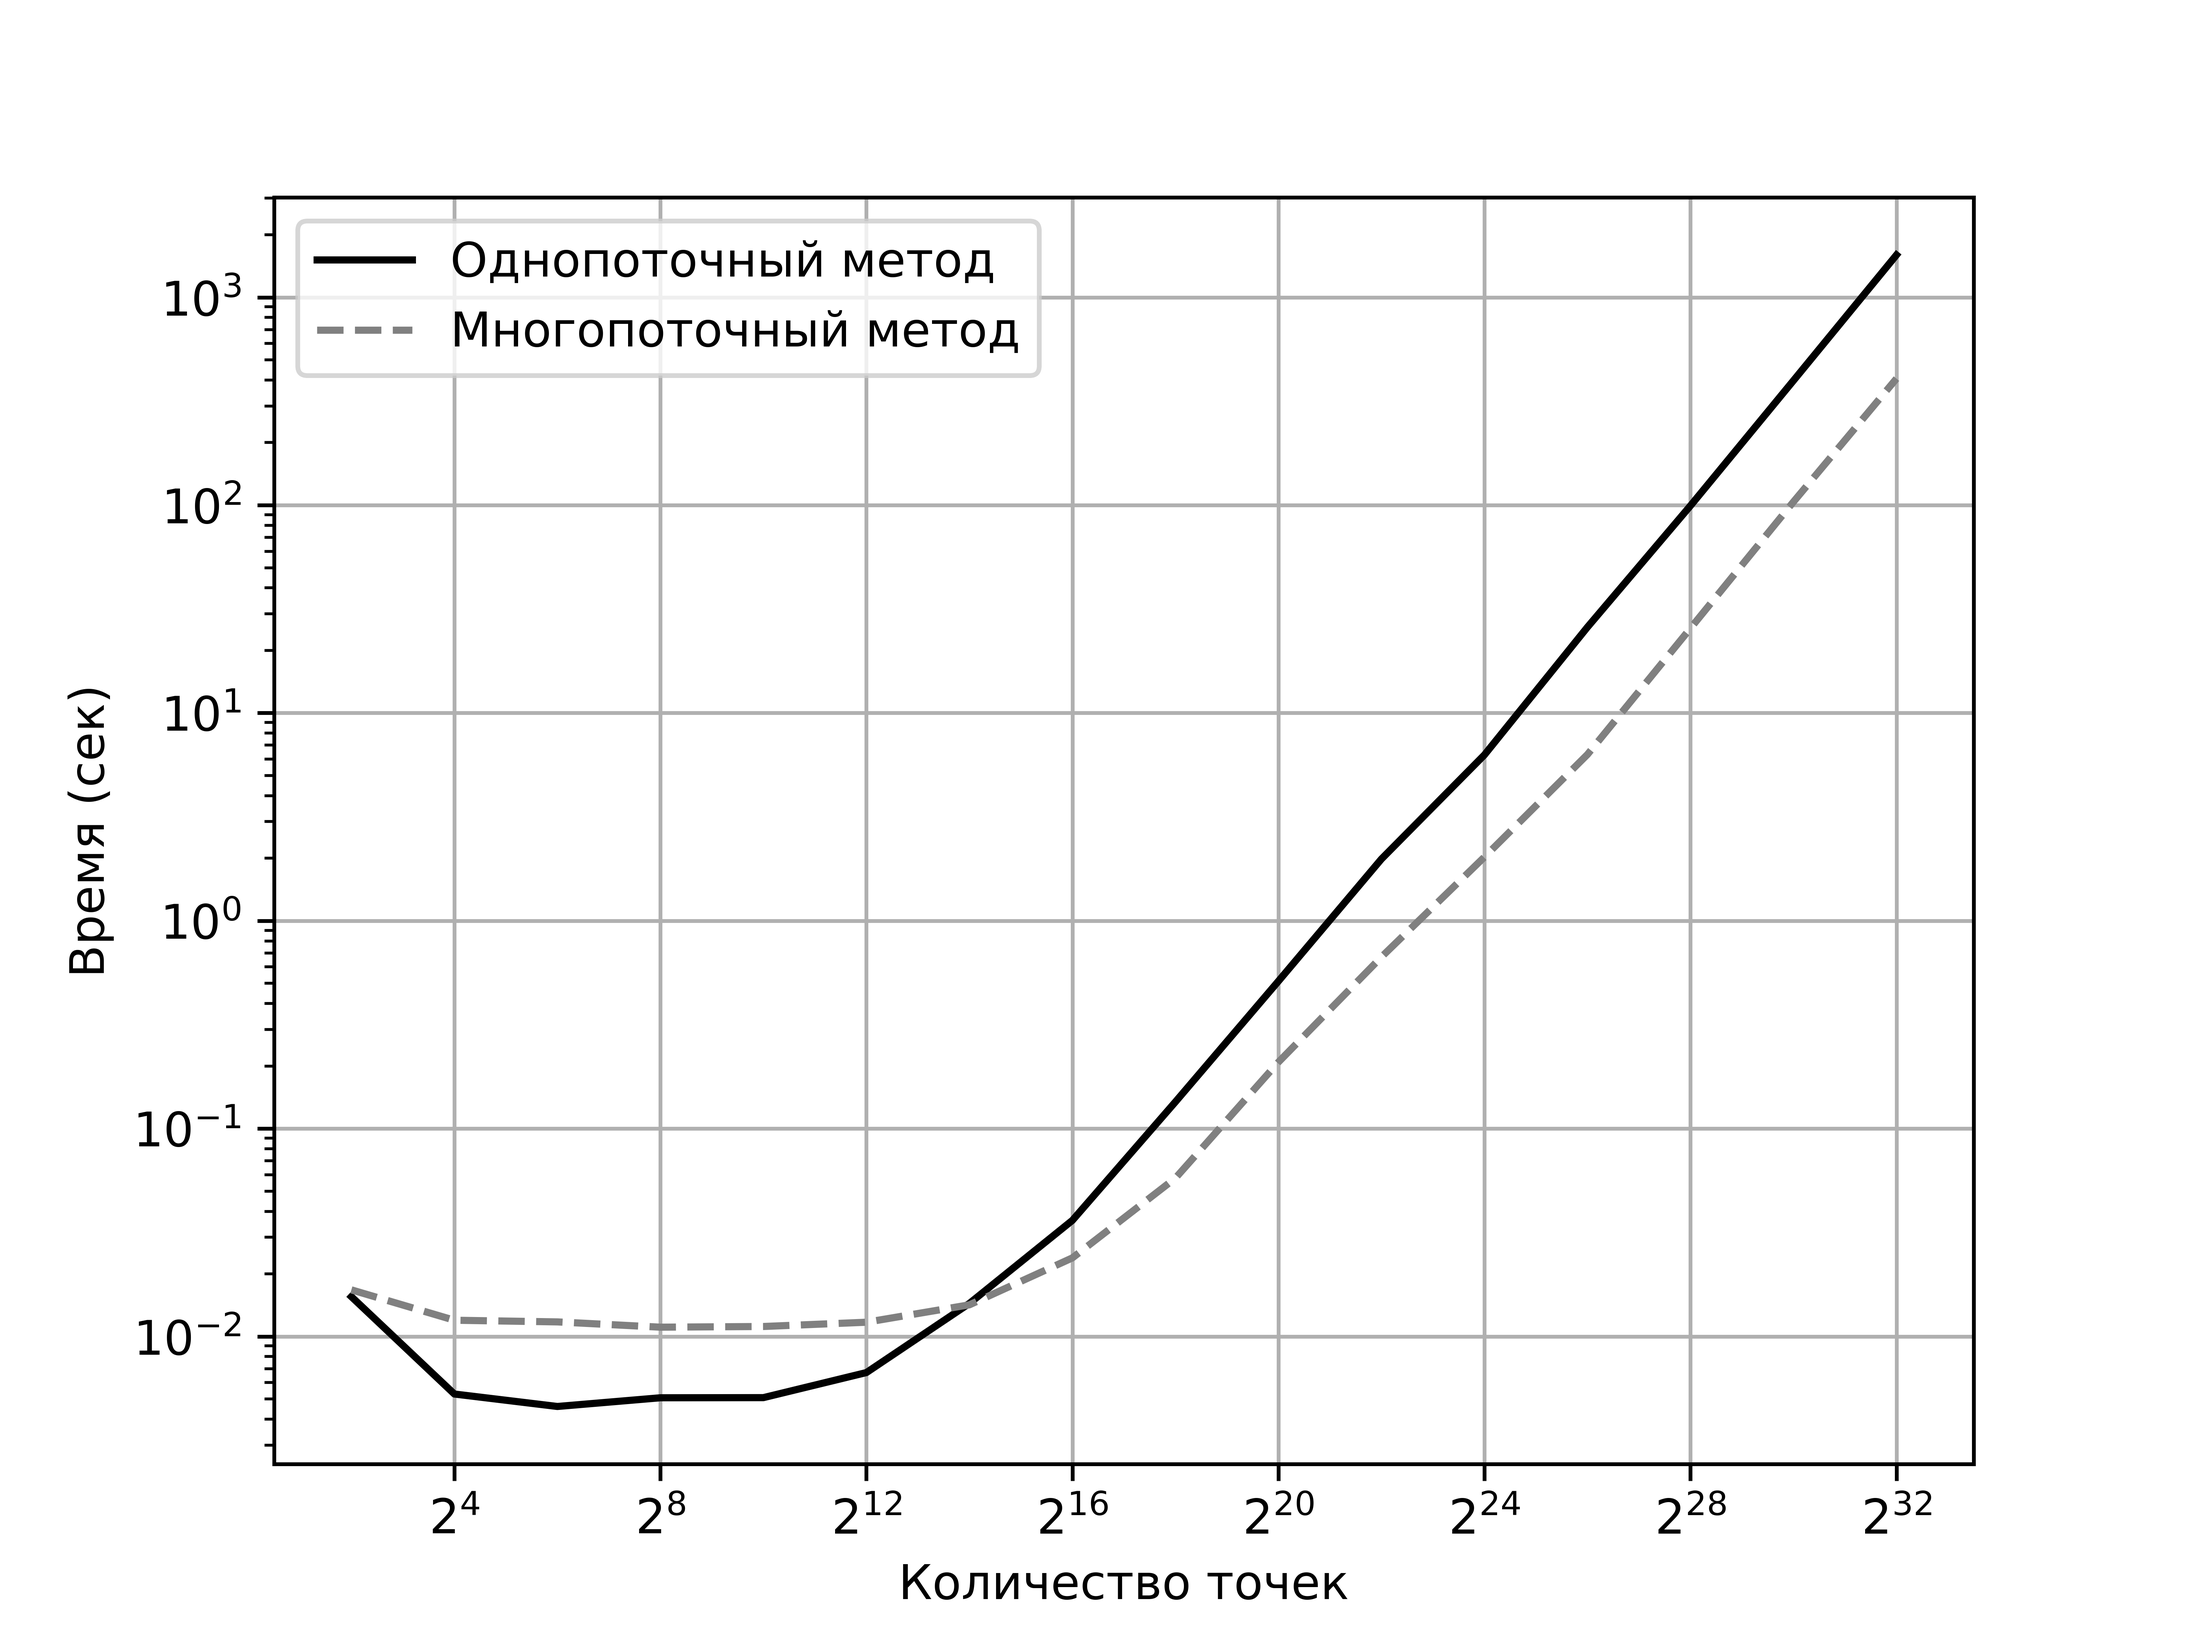
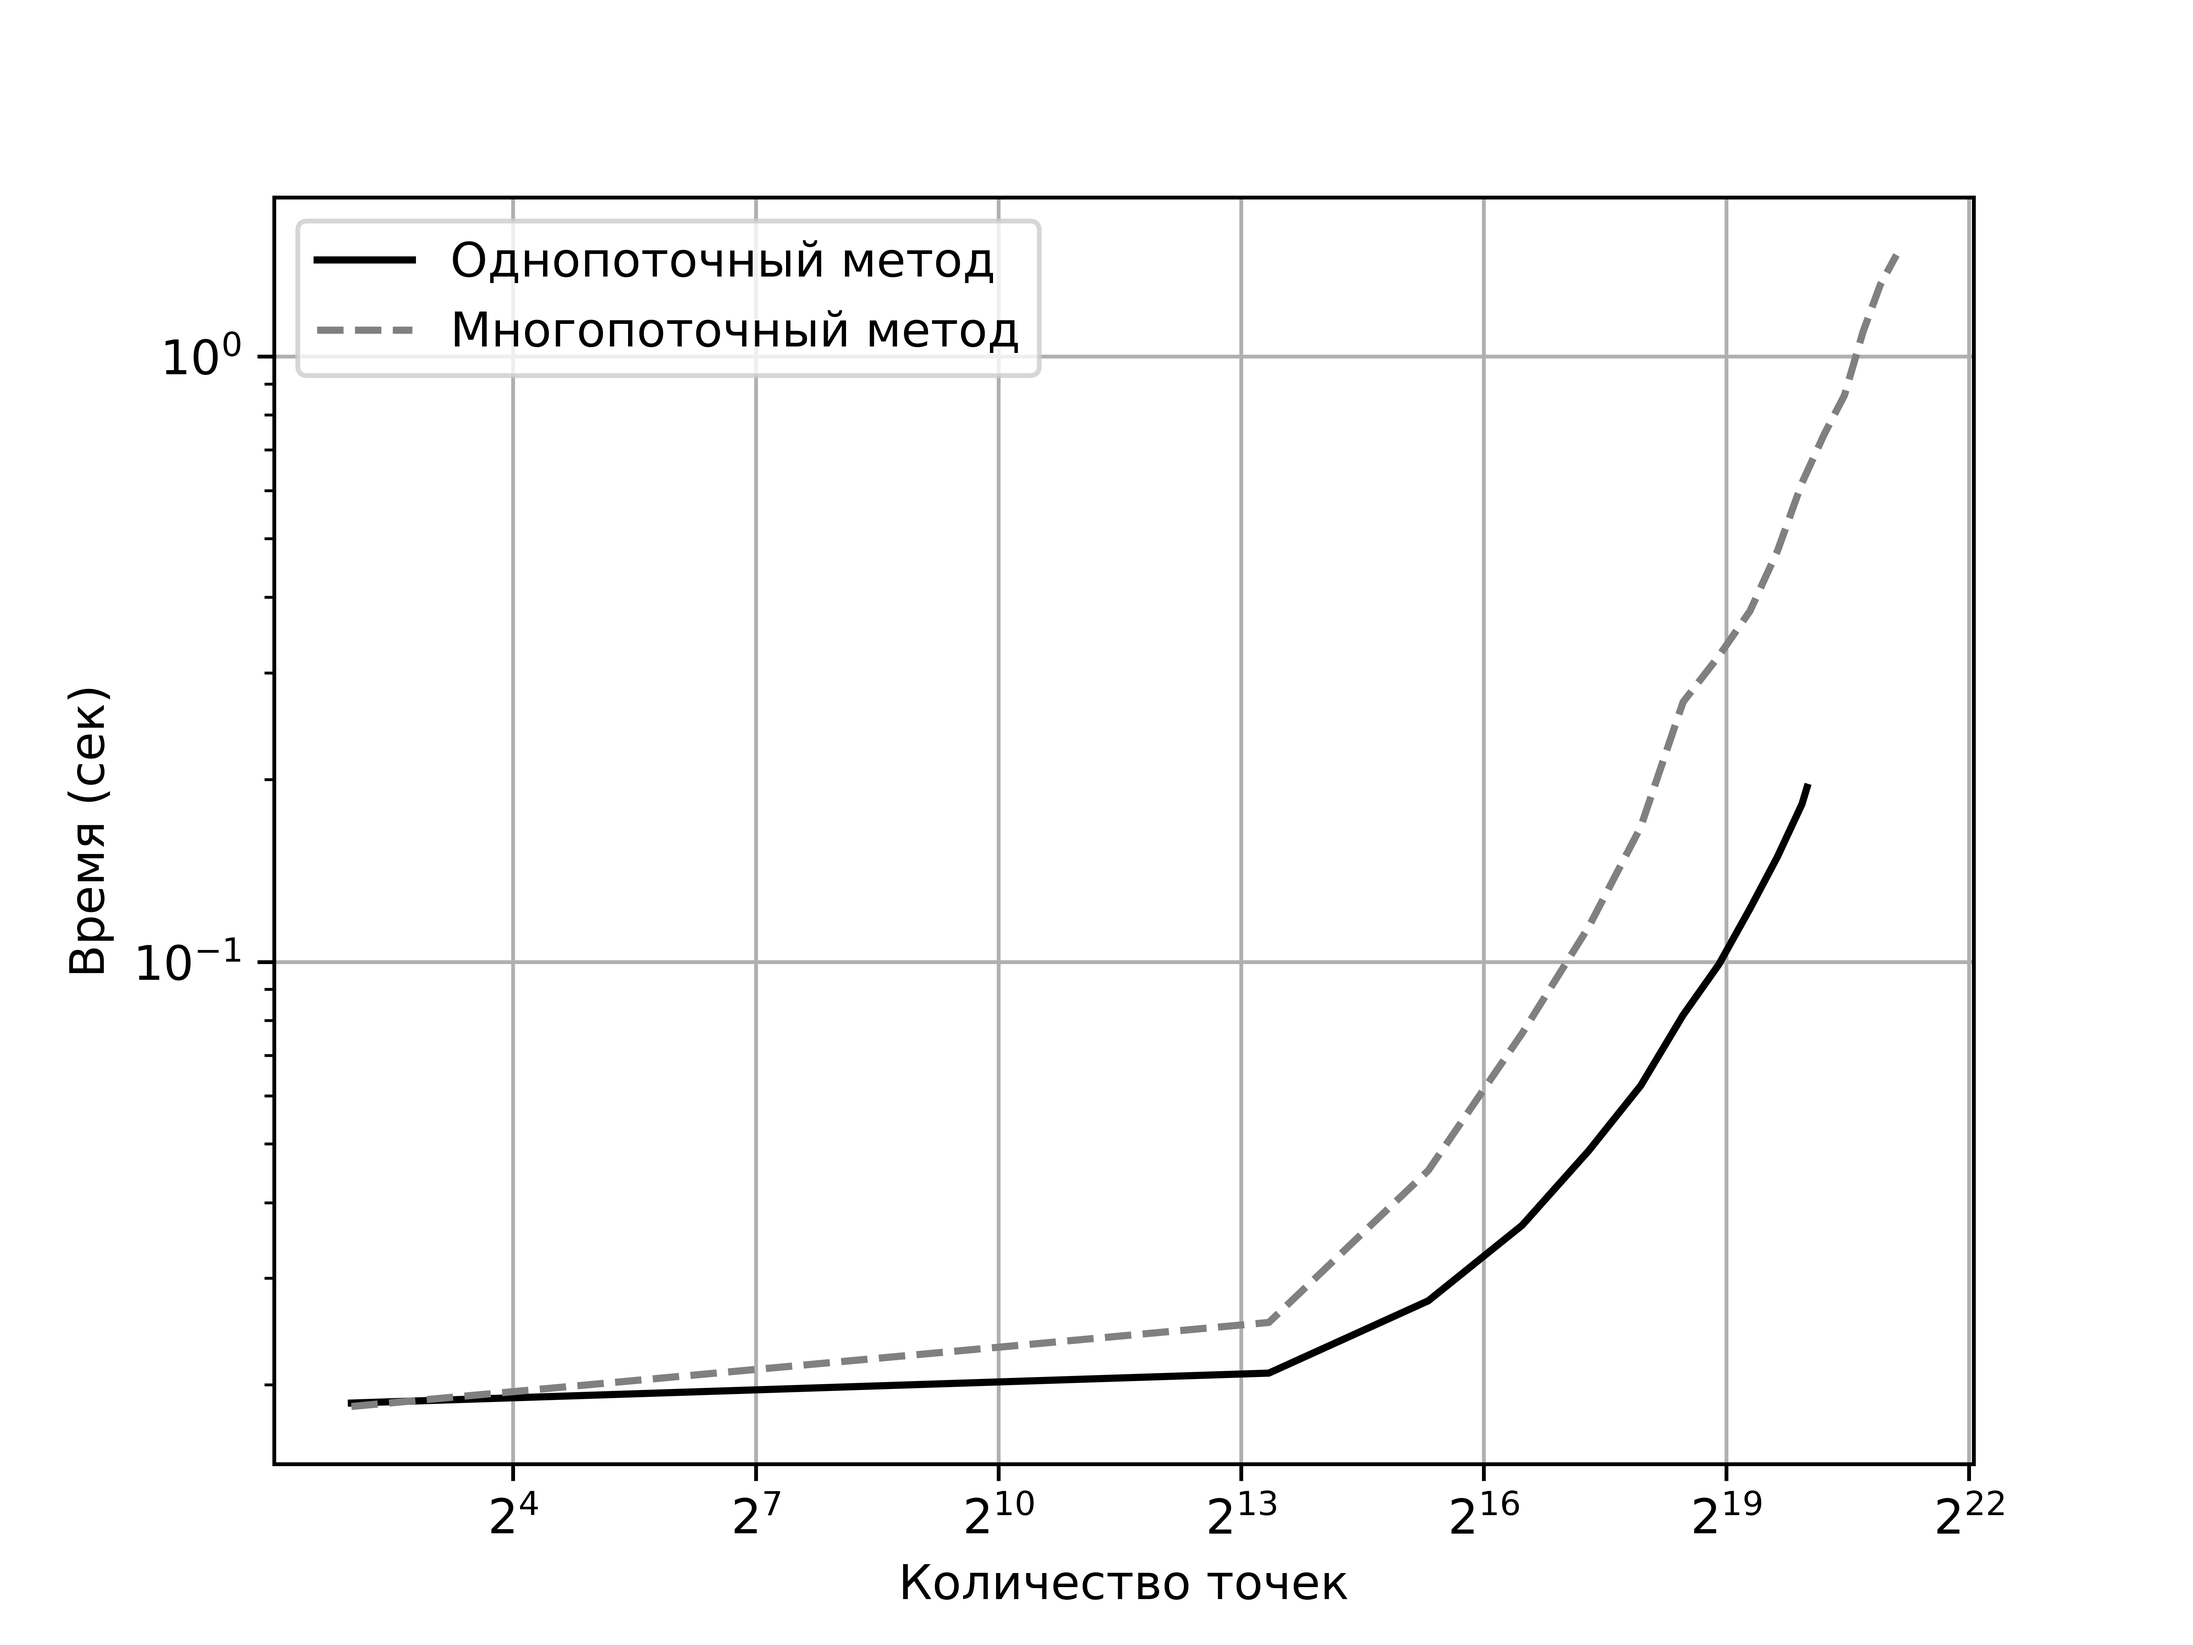
finalissled

diff --git a/issled.py b/issled.py
@@ -289,7 +289,7 @@ def issled_integr(func, a1, b1, a2, b2, nx, ny, real_val):
 def issled_integr_diff_nx_ny(func, a1, b1, a2, b2, real_val):
     points = 2
     usred = 0
-    while points * points <= 1048576:
+    while points * points <= 4194304:
         usred = 0
         for k in range(0, 10):
             res = issled_integr(func, a1, b1, a2, b2, points, points, real_val)
@@ -300,9 +300,9 @@ def issled_integr_diff_nx_ny(func, a1, b1, a2, b2, real_val):
         points = points + 100
         print(res)
 
-    res = issled_integr(func, a1, b1, a2, b2, 1024, 1024, real_val)
-    res.append(1024 * 1024)
-    print(res)
+    # res = issled_integr(func, a1, b1, a2, b2, 1024, 1024, real_val)
+    # res.append(1024 * 1024)
+    # print(res)
 
 if __name__ == "__main__":
     res = issled_integr_diff_nx_ny(int_func3, 0, math.pi / 2, 0, math.pi / 2, math.pi / 4)
